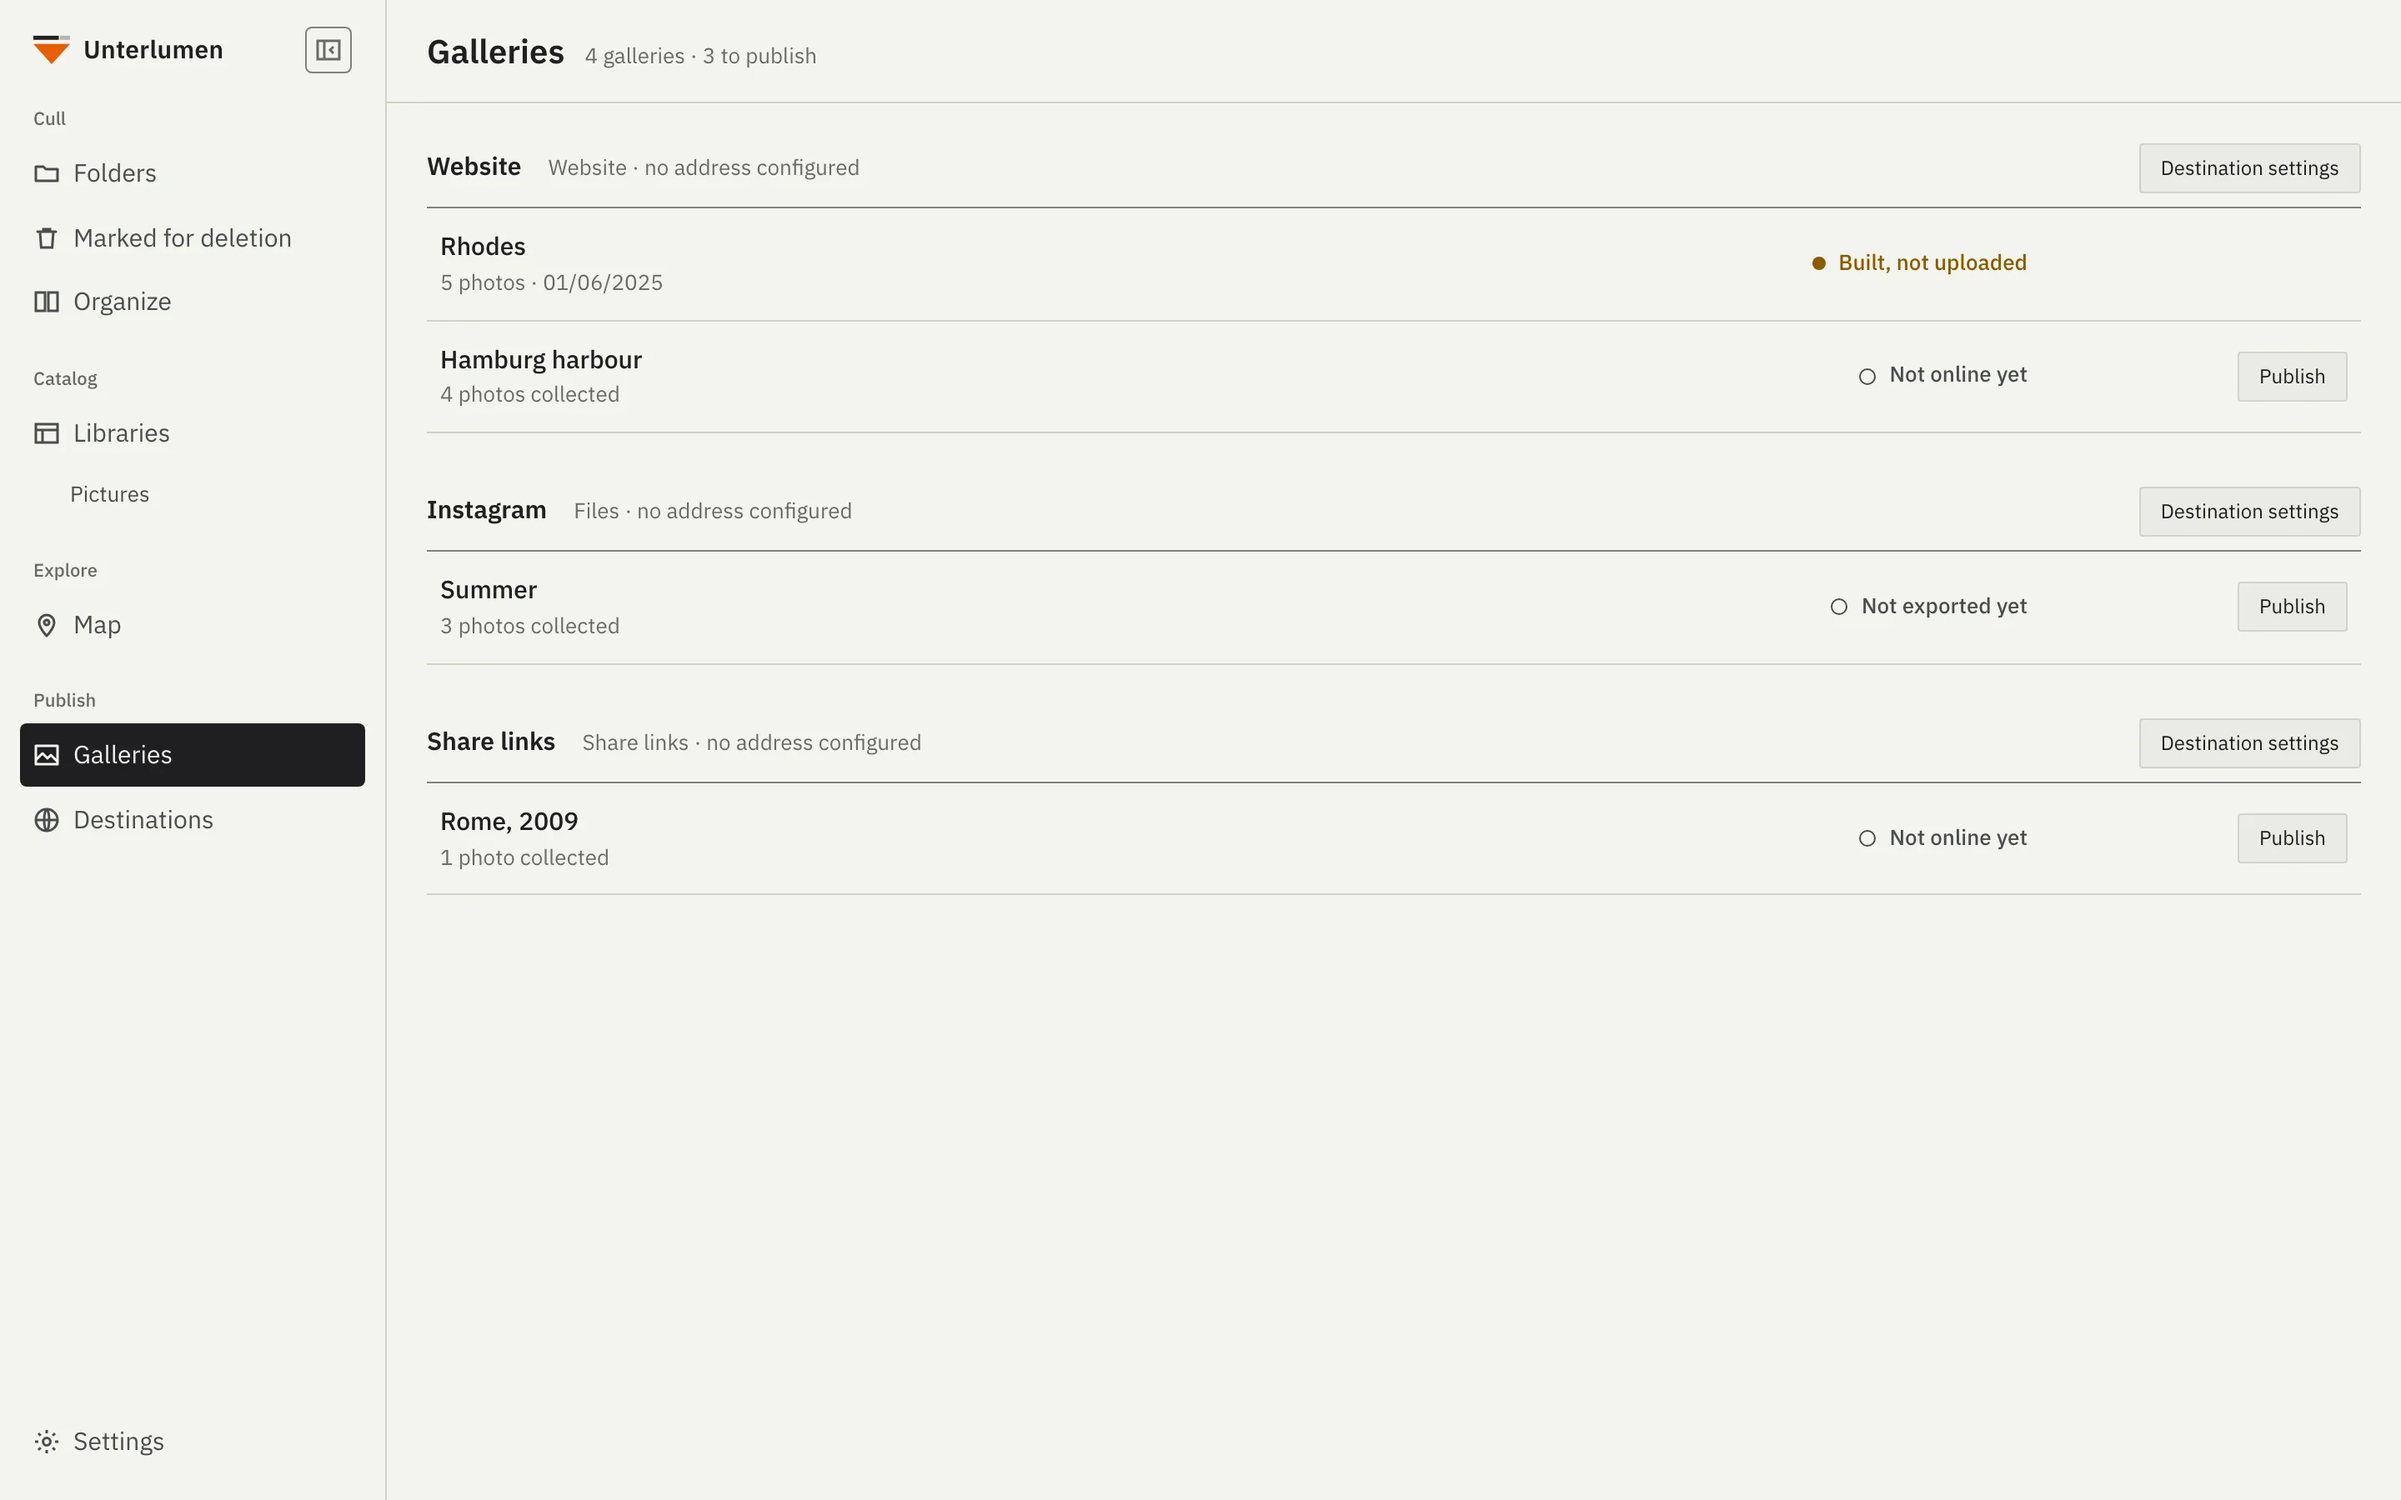
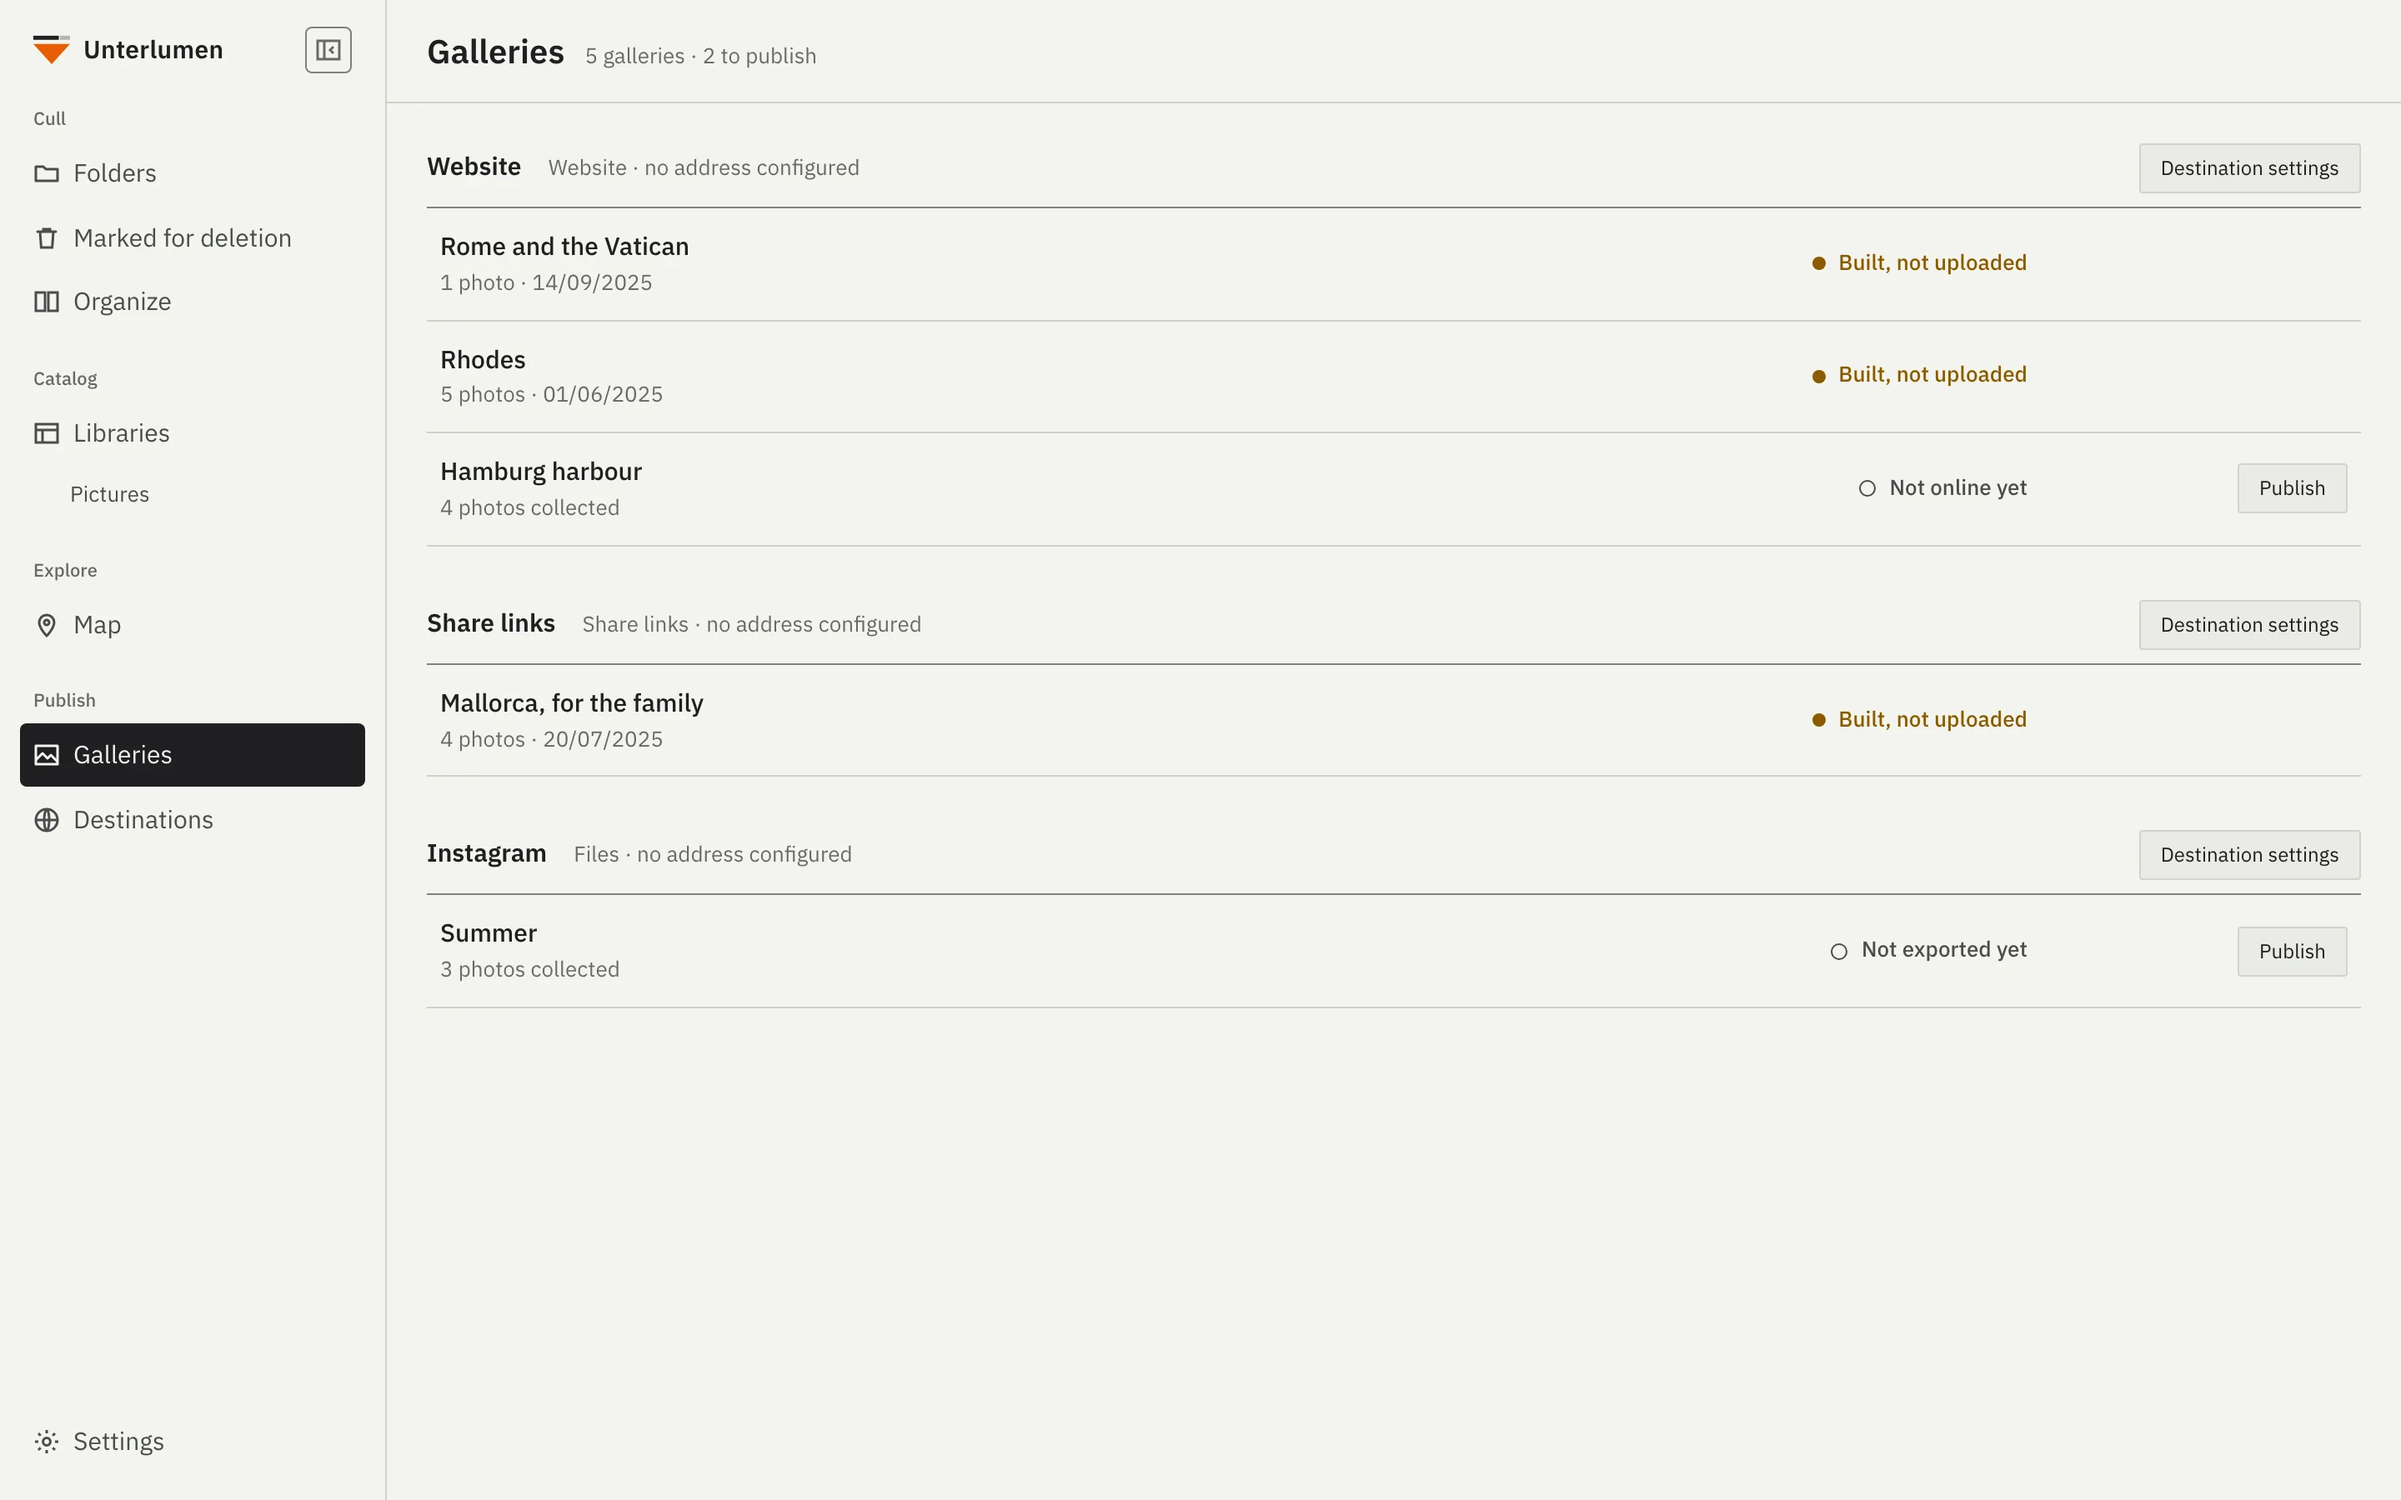
docs: publishing to your own website, with pictures of what it builds
The README says up front that Unterlumen builds a complete website or
single galleries behind share links, and that uploading needs your own
webspace over SSH and uses rsync. The screenshot script now publishes
two albums and a share-link gallery and shows the generated pages.

diff --git a/README.md b/README.md
@@ -14,6 +14,8 @@ Unterlumen is a local image browser and culler. It runs as a lightweight web ser
 - Batch rename using EXIF fields (date, camera, film simulation, …)
 - Export & convert: resize, change format (JPEG/PNG/WebP), strip GPS, download as ZIP
 - Geolocation: set or remove GPS coordinates via interactive map
+- **Publish your own website:** turn collected photos into a complete, multi-album website with navigation and a sitemap, or into a single gallery behind a private share link for family and friends — no photo platform in between. You need your own webspace reachable over SSH; Unterlumen uploads with rsync. Without it, the result is a folder you can put online any way you like.
+- Map: every photo with a location on one map, grouped by place
 - **Optional — Digital Asset Management (DAM):** build a persistent, searchable catalog of your photos. Search by aperture, focal length, camera, lens, or Fujifilm film simulation across multiple libraries. Track where and when photos were published, with platform presets (Instagram 1080 px, Mastodon 1920 px, …).
 
 **What it is not:**
@@ -70,7 +72,7 @@ What you shoot with and when: formats, film simulations, lenses, exposure, time 
 
 #### Map
 
-Every photo with a location on one map. Photos close together form a group showing the newest one; zooming in splits the groups. The Photos column lists what is in view, and the slider narrows it to a period.
+Every photo with a location on one map. Photos close together form a group showing the newest one; zooming in splits the groups. The Photos column lists what is in view, the slider narrows it to a period, and Style switches between grey and colour tiles.
 
 ![Map with the photos column](doc/screenshots/map.webp)
 
@@ -84,9 +86,21 @@ Tools for a selection: rename from EXIF tokens with a live preview, export to JP
 
 #### Galleries
 
-Photos collected for a destination — a website, share links, a folder for Instagram — become galleries. Each says in words where it stands, and Publish is the one action that builds, uploads and checks it.
+**Your photos, on your own website.** Photos you collect for a destination become galleries, and Publish turns them into static HTML on your own webspace:
+
+- **A complete website** — many albums with an index, navigation and a sitemap, growing with every gallery you publish, and found by search engines.
+- **Share links** — one gallery per link under an unguessable address, not indexed, for sending to family and friends.
+- **Files** — the photos sized for a platform such as Instagram, in a folder, to post by hand.
+
+Publish is the one action that exports, builds, uploads and checks the link; each gallery says in words where it stands. Uploading needs your own webspace reachable over SSH and uses rsync. Without an upload target the build stays in a local folder you can copy anywhere.
 
 ![Galleries](doc/screenshots/galleries.webp)
+
+What Publish builds — a website with its albums, one album of it, and a gallery behind a share link:
+
+| Website | Album | Share link |
+|---|---|---|
+| ![A generated website with two albums](doc/screenshots/website.webp) | ![An album of the generated website](doc/screenshots/website-album.webp) | ![A gallery behind a share link](doc/screenshots/share-link.webp) |
 
 #### On a phone
 
@@ -120,9 +134,9 @@ On a phone Unterlumen is for looking: libraries, folders, photos, the map and yo
 - **Organize** — One source folder shown large, your target folders as a list with a number key each: select, press the key, done. Moves run immediately with an undo beside the result; ⌥ copies instead. Targets are remembered between sessions, and "Mark for deletion" is a target like any other (folders included)
 - **Waste bin** — Mark photos for deletion, review in a dedicated view, restore or permanently delete
 - **Libraries (DAM)** — Index a folder into a SQLite library (no CGo). Photos are identified by SHA-256 so metadata survives renames. Full-text EXIF search, key/value annotations, HQ thumbnails, and re-index progress via Server-Sent Events. Library data stored in `~/.unterlumen/libraries/<id>/` (overridable with `--lib-dir` / `UNTERLUMEN_LIB_DIR`)
-- **Publish to Channels** — A two-phase collect-then-publish workflow. From library mode, select photos (from the folder tree or EXIF filter results, within a single library or across libraries) and use the selection bar's "Add to gallery…" to add them to a gallery's pending draft — a new or existing gallery/album. Nothing is exported yet, so a gallery can be built up incrementally across sessions. When ready, open Galleries and press Publish: one action exports the photos, builds the HTML (writing an XMP sidecar per photo using a custom `xmlns:ul` namespace — non-destructive and portable), uploads the result where an upload is configured (rsync channels), and checks the link, showing each step as it runs. A failed upload keeps the build, so the gallery reads "Built, not uploaded" and the retry only uploads. Afterwards you can open the gallery in a browser, copy the local path, reveal it in Finder/Explorer, or preview it locally. Supports named accounts (e.g. two Mastodon logins), optional grouped post IDs for carousels, and platform-optimised export (channel presets: Instagram 1080px, Mastodon 1920px, Website 2400px). Two publishing modes: a **multi-album site** (a real, growing website whose albums are navigable and indexable) and **single gallery** (one host holding many unrelated albums, each under its own unguessable 24-hex URL — for sharing one album by link with a specific group, marked Unlisted by default so it carries a `noindex` tag). A single-gallery channel holds as many albums as you like; each is published, renamed and deleted on its own. Channel settings managed via a dedicated UI; stored globally in `~/.unterlumen/channels.json` (overridable with `-channels-dir` / `UNTERLUMEN_CHANNELS_DIR`, e.g. to share channel config between multiple installations — see [Sharing channel config across installations](#sharing-channel-config-across-installations))
+- **Publish to your own website** — Needs your own webspace reachable over SSH; the upload uses rsync (without it, the build stays in a local folder). A two-phase collect-then-publish workflow. From library mode, select photos (from the folder tree or EXIF filter results, within a single library or across libraries) and use the selection bar's "Add to gallery…" to add them to a gallery's pending draft — a new or existing gallery/album. Nothing is exported yet, so a gallery can be built up incrementally across sessions. When ready, open Galleries and press Publish: one action exports the photos, builds the HTML (writing an XMP sidecar per photo using a custom `xmlns:ul` namespace — non-destructive and portable), uploads the result where an upload is configured (rsync channels), and checks the link, showing each step as it runs. A failed upload keeps the build, so the gallery reads "Built, not uploaded" and the retry only uploads. Afterwards you can open the gallery in a browser, copy the local path, reveal it in Finder/Explorer, or preview it locally. Supports named accounts (e.g. two Mastodon logins), optional grouped post IDs for carousels, and platform-optimised export (channel presets: Instagram 1080px, Mastodon 1920px, Website 2400px). Two publishing modes: a **multi-album site** (a real, growing website whose albums are navigable and indexable) and **single gallery** (one host holding many unrelated albums, each under its own unguessable 24-hex URL — for sharing one album by link with a specific group, marked Unlisted by default so it carries a `noindex` tag). A single-gallery channel holds as many albums as you like; each is published, renamed and deleted on its own. Channel settings managed via a dedicated UI; stored globally in `~/.unterlumen/channels.json` (overridable with `-channels-dir` / `UNTERLUMEN_CHANNELS_DIR`, e.g. to share channel config between multiple installations — see [Sharing channel config across installations](#sharing-channel-config-across-installations))
 - **On a phone** — Below 700 px the sidebar becomes a tab bar (Libraries, Folders, Map, Galleries) and Unterlumen becomes read-only: browse libraries and folders, open a photo full screen and swipe through the set, read its metadata in a sheet from the bottom, look at statistics, and see how your galleries are doing. Everything that changes files or settings stays on the desktop; a desktop-only place says so instead of showing controls that cannot work there. Reach it by binding the server to your network (`UNTERLUMEN_BIND=0.0.0.0`) or through the Docker deployment
-- **Map** — Every photo with a location, from every library, on one large map. Photos taken close together form a group, shown as a round thumbnail of the newest one with the number of photos beside it; zooming in splits the groups until each photo stands at its own place. Clicking a group zooms in; a group whose photos share one spot, or a single photo, opens in the viewer (read-only: no crop, no marking for deletion). A time slider narrows the map to the months the photos were taken in. The Photos button opens a column with the photos in the part of the map on screen, newest first, following the map as you move and zoom; Done or Escape closes it again. The map is grey, light or dark with the theme; its tiles come from OpenFreeMap and need an internet connection. Only photos in a library appear. See [ADR-0039](doc/architecture/adr/0039-map-place.md)
+- **Map** — Every photo with a location, from every library, on one large map. Photos taken close together form a group, shown as a round thumbnail of the newest one with the number of photos beside it; zooming in splits the groups until each photo stands at its own place. Clicking a group zooms in; a group whose photos share one spot, or a single photo, opens in the viewer (read-only: no crop, no marking for deletion). A time slider narrows the map to the months the photos were taken in. The Photos button opens a column with the photos in the part of the map on screen, newest first, following the map as you move and zoom; Done or Escape closes it again. The map is grey by default, light or dark with the theme; the Style switch shows it in colour. Its tiles come from OpenFreeMap and need an internet connection. Only photos in a library appear. See [ADR-0039](doc/architecture/adr/0039-map-place.md)
 - **Galleries** — A dedicated "Galleries" place lists every gallery across every destination (the UI name for a channel), grouped by destination and showing its state in words: Not online yet, Changes not online, Online, or Built. An action appears only where there is something to do — "Publish", "Publish N changes", "Check again". Link reachability is checked once when the screen opens and after each publish, and is reported next to the state with the time of the check rather than as a state of its own. Opening a gallery shows the photos waiting to go online (removable individually), its title, date, visibility toggle (single-gallery destinations), address, and Unpublish — with a scoped remote delete over SSH for rsync destinations. The channels list links to a destination's public site and to its galleries
 - **Image viewer** — Full-screen image view with keyboard navigation
 - **Crop tool** — Interactive crop in the fullscreen viewer. Draw a rectangle, pick an aspect ratio (free, standard, or cinema formats), and save in-place. All metadata including Fujifilm film simulation is preserved via exiftool

diff --git a/.claude/skills/unterlumen-readme-screenshots/SKILL.md b/.claude/skills/unterlumen-readme-screenshots/SKILL.md
@@ -9,6 +9,7 @@ allowed-tools: Bash, Read, Edit, Write
 The README's `## Screenshots` section shows one picture per important feature. The pictures are WebP files in `doc/screenshots/`, made by a script — never by hand, never from the real installation.
 
 - `e2e/screenshots/take.mjs` — starts a throwaway server (port 8097) on a copy of `src/examples` with the folders renamed (Travel, 2017, 2025, Odds and ends), seeds a library "Pictures", destinations and galleries through the API, captures, converts with `cwebp`, deletes everything temporary.
+- The seed also publishes two albums to the Website destination and one share-link gallery (build only, no upload); `website`, `website-album` and `share-link` open that output from disk (`file://…/lib/channels/…`). A change to the generated site's templates (`internal/site`) means retaking those three.
 - `e2e/screenshots/shots.mjs` — the list of shots, in README order. Each has a `name` (the file name), optional `dark`, `storage` (localStorage before load), phone settings (`...PHONE`), and a `take(page, { base, lib })` that opens a place and puts it into the state worth showing.
 
 ## When a feature is finished
